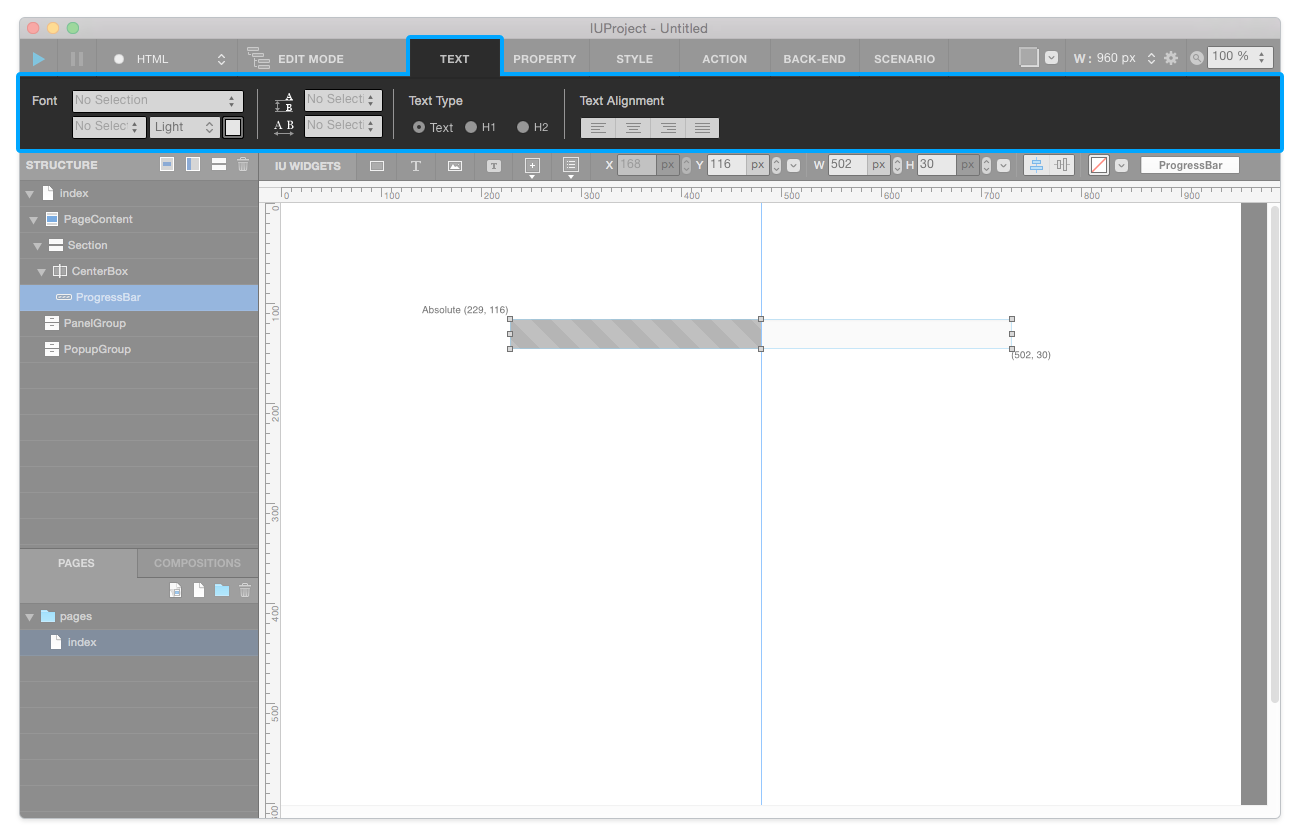
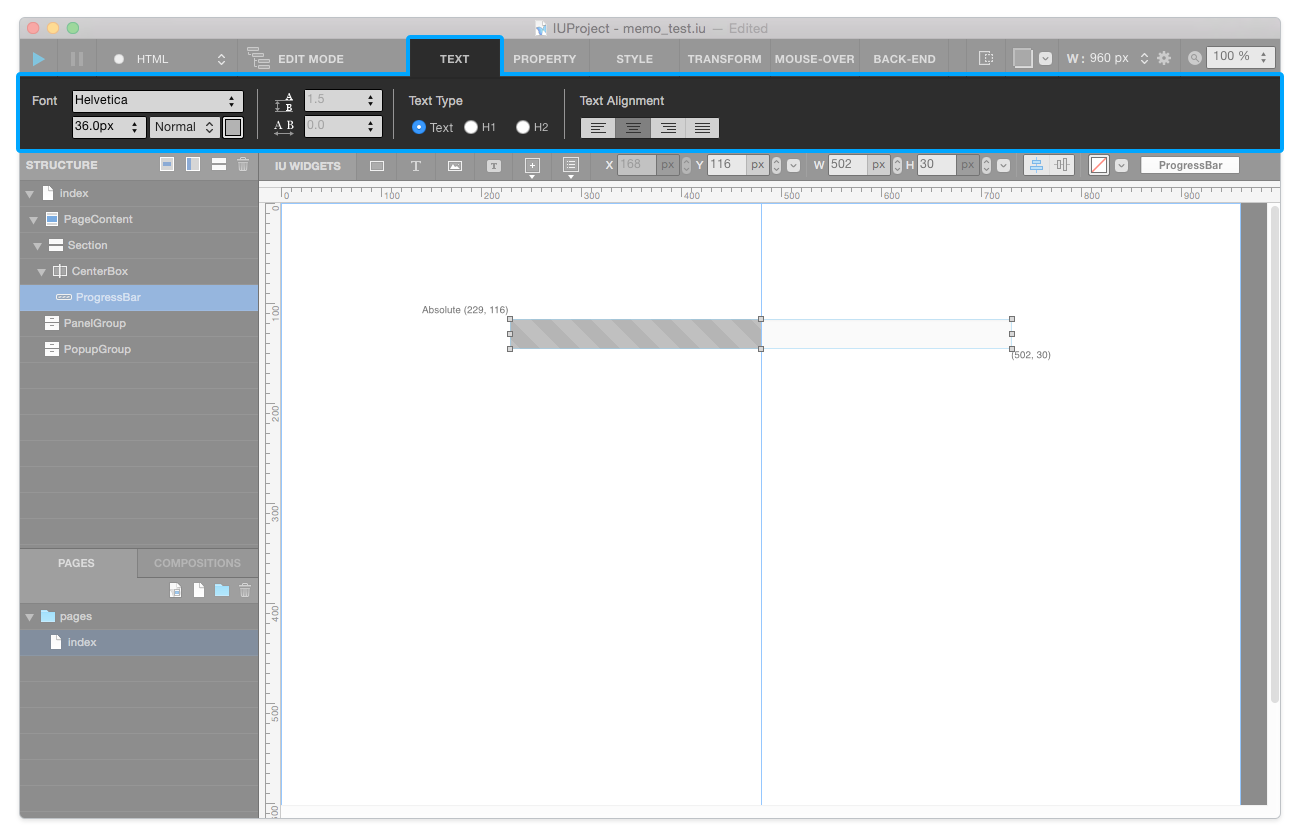
update top-toolbar

diff --git a/basic_top_toolbar.rst b/basic_top_toolbar.rst
@@ -34,7 +34,7 @@
 탭 메뉴 Tab Menu
 -------------
 
-상단 툴 바 중앙에 위치한 탭 메뉴 영역에서는 **텍스트 / 속성 / 스타일 / 액션 / 백엔드** 탭 메뉴가 있습니다. 각 탭 메뉴를 선택하면, 상단 툴바 하단의 프로퍼티 패널에 보여집니다. 
+상단 툴 바 중앙에 위치한 탭 메뉴 영역에서는 **텍스트 / 속성 / 스타일 / 트랜스폼 / 마우스-오버 / 백엔드** 탭 메뉴가 있습니다. 각 탭 메뉴를 선택하면, 상단 툴바 하단의 프로퍼티 패널에 보여집니다. 
 
 
 ----------
@@ -69,22 +69,30 @@
 
 ----------
 
-.. image:: resource/iu_manual_top_toolbar_tab04_action.png
+.. image:: resource/iu_manual_top_toolbar_tab04_transform.png
 
-액션 탭 Action Tab
+트랜스폼 탭 Transform Tab
 ---------------
 
-액션 텝 메뉴를 선택하면, 마우스 오버시 변화되는 값을 설정할 수 있습니다.
+트랜스폼 텝 메뉴를 선택하면, 회전 값 Rotation 값 등을 설정하여 형태를 변형시킬 수 있습니다.
 
 ----------
 
+.. image:: resource/iu_manual_top_toolbar_tab05_mouse_over.png
 
-.. image:: resource/iu_manual_top_toolbar_tab05_backend.png
+마우스-오버 탭 Mouse-Over Tab
+---------------
+
+마우스 오버 텝 메뉴를 선택하면, 마우스 오버 시 변화하는 값을 설정 할 수 있습니다.
+
+----------
+
+.. image:: resource/iu_manual_top_toolbar_tab06_backend.png
 
 백엔드 탭 Back-End Tab
 -------------------
 
-백엔드 탭 메뉴를 선택하면 특정 위젯에 **변수 Variables**를 설정할 수 있습니다. (장고 Django 프로젝트일 때만 가능합니다.) 
+백엔드 탭 메뉴를 선택하면 특정 위젯에 **변수 Variables** 를 설정할 수 있습니다. (장고 Django 프로젝트일 때만 가능합니다.) 
 
 
 

diff --git a/advanced_heroku.rst b/advanced_heroku.rst
@@ -1,0 +1,45 @@
+
+
+헤로쿠 Heroku
+============
+
+
+.. image:: resource/iu_manual_advanced_heroku.png
+
+상단 툴바에서 에딧/시나리오 버튼을 클릭하면 시나리오 모드로 진입합니다. 
+
+**수정 이력 Revision History / 프로젝트 워크플로우 Project Workflow / 화면 정의 Screen Definition** 페이지로 구분되며, 우측의 ``도큐먼트 빌드 Document Build`` 버튼을 실행하여 **HTML 시나리오 문서** 를 제작할 수 있습니다.
+
+
+----------
+
+
+개정 이력 Revision History
+-----------------------
+
+.. image:: resource/scenario/ic_SB_revision.png
+
+
+현재 프로젝트에 대한 개정 이력을 작성 / 수정합니다.
+
+
+----------
+
+프로젝트 워크플로우 Project Workflow
+-------------------------------
+
+.. image:: resource/scenario/ic_SB_workflow.png
+
+현재 프로젝트내 각 페이지 사이에 걸린 링크들의 경로를 보여줍니다.
+
+
+
+----------
+
+화면 정의 Screen Definition
+-------------------------------
+
+.. image:: resource/scenario/ic_SB_screen.png
+
+페이지 스트럭쳐에서 선택된 페이지의 상세 화면 정의를 작성할 수 있습니다. 
+
